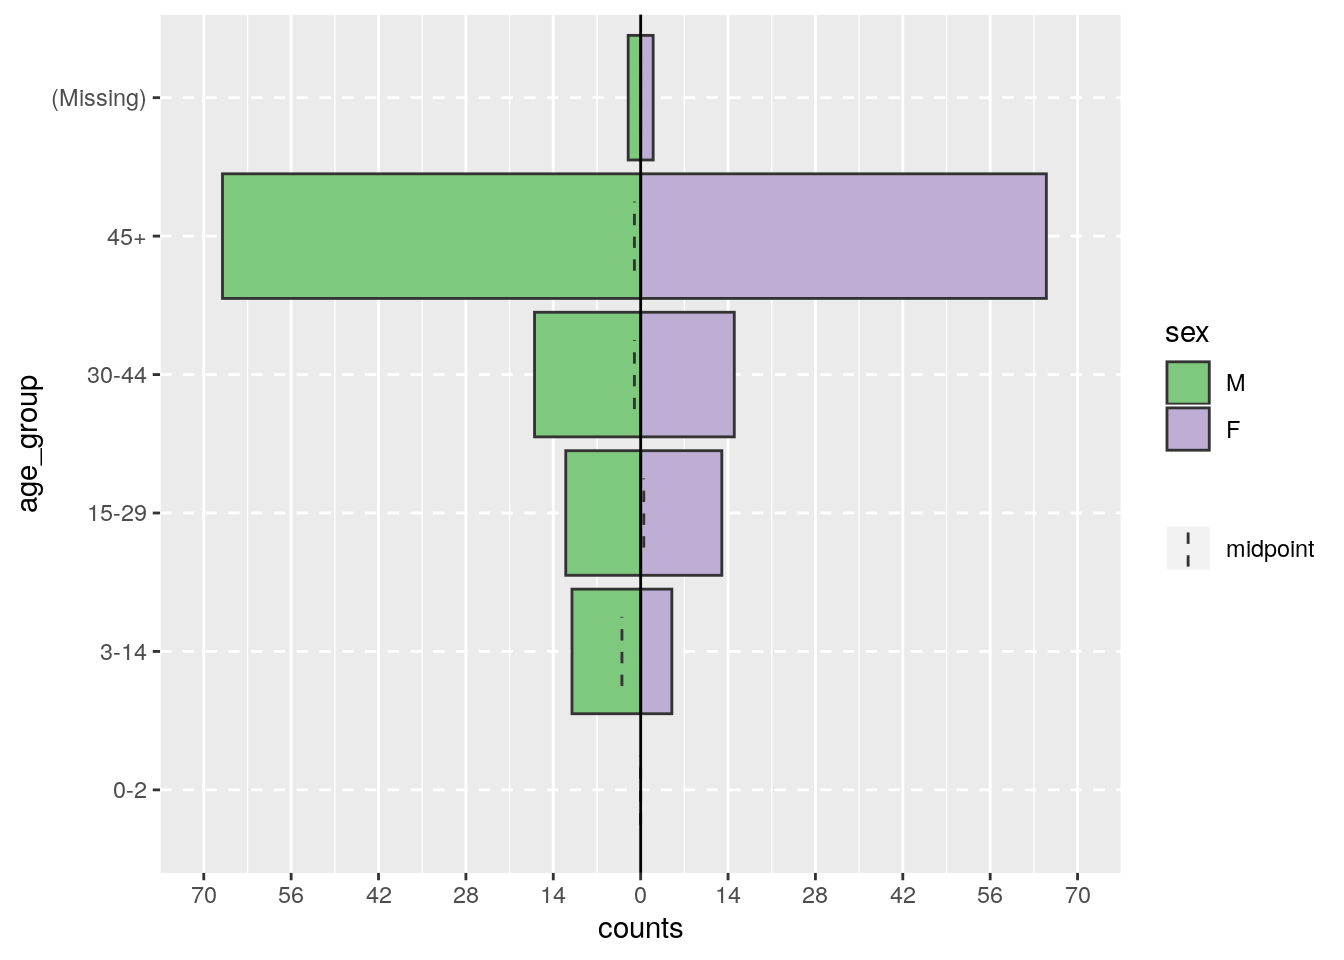
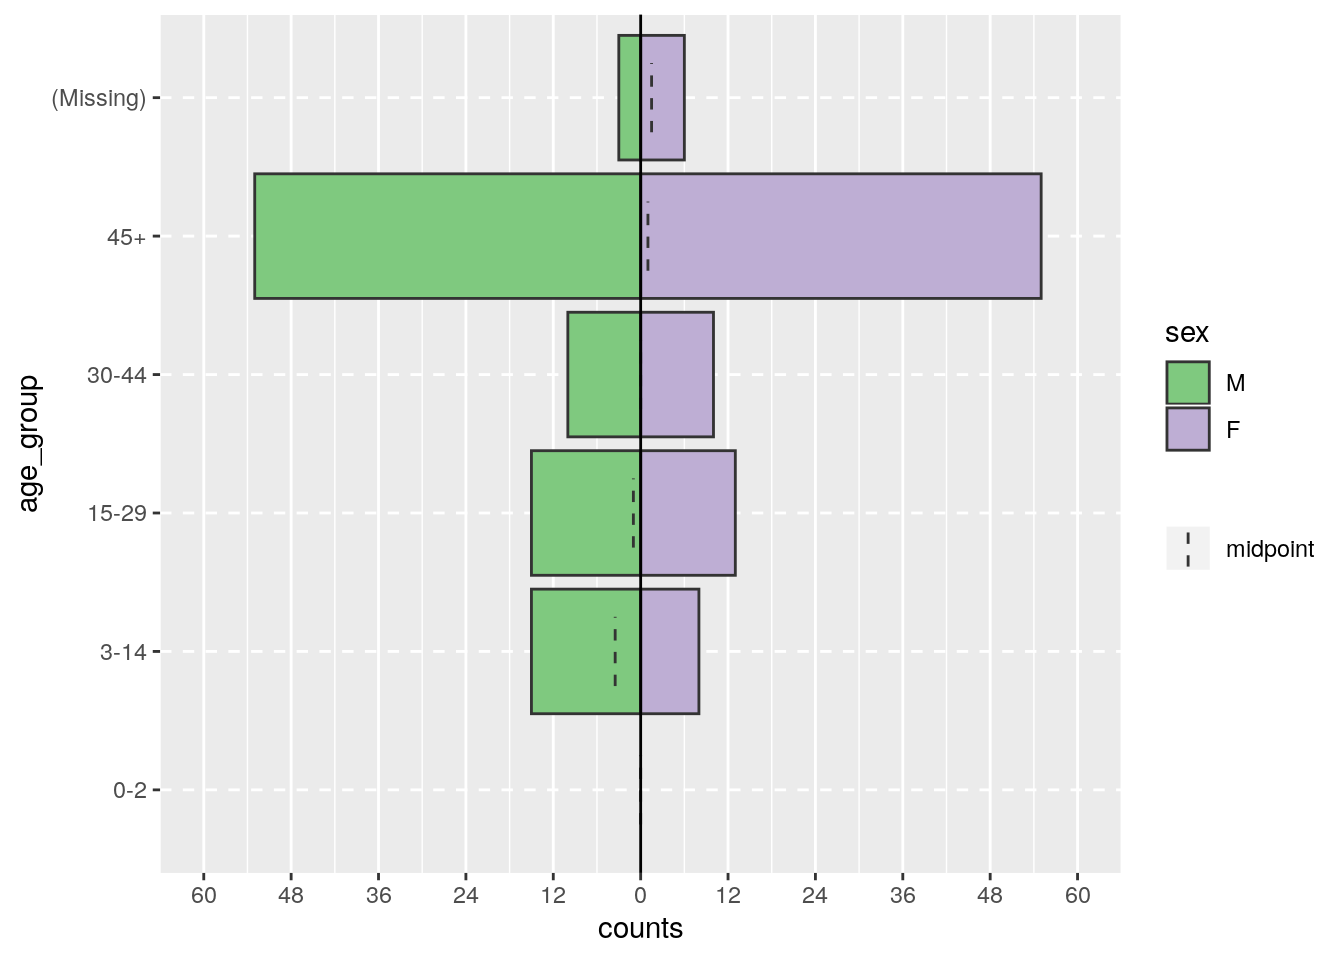
rebuild website

diff --git a/content/training/Walk-through/dataset_alignment.html b/content/training/Walk-through/dataset_alignment.html
@@ -38,21 +38,26 @@ colnames(linelist_cleaned) &lt;- cleaned_colnames</code></pre>
 <h3>Match variables to align with data dictionary</h3>
 <p>Standardized variable names are required for this template to work smoothly, and the variable names in our Am Timan dataset do not align with the names this template expects.</p>
 <p><strong>We need to change many variable names, and R4Epis developed a special function to help map variables to the expected variable names.</strong> The template also offers code that you can uncomment if there are only a few variable names to change.</p>
-<ol style="list-style-type: decimal">
-<li><strong>Paste the disease-specific rename helper into the script.</strong> This is done by uncommenting and running a command found in the <code>match_column_names</code> section - near the end of the chunk <code>prep_nonDHIS_data</code>. We run the command <code>msf_dict_rename_helper()</code> with “AJS” to get the correct helper for this case study.</li>
-</ol>
+<div id="paste-the-disease-specific-rename-helper-into-the-script" class="section level4">
+<h4>Paste the disease-specific rename helper into the script</h4>
+<p>This is done by uncommenting and running a command found in the <code>match_column_names</code> section—near the end of the chunk <code>prep_nonDHIS_data</code>. We run the command <code>msf_dict_rename_helper()</code> with “AJS” to get the correct helper for this case study.</p>
 <pre class="r"><code>msf_dict_rename_helper(&quot;AJS&quot;)</code></pre>
 <p>Running this command copies a block of code text to our clipboard. Now, <em>paste</em> from your clipboard into the template in the bottom of the code chunk. For the AJS template, the code that is pasted will look like the code below. This code uses the function <code>rename()</code> to change variable names.</p>
 <p>{{% notice tip %}}
 Be sure to paste the AJS rename helper code into an existing R code chunk (e.g. the bottom of <code>prep_nonDHIS_data</code>), not into the white space of the RMarkdown script.
 {{% /notice %}}</p>
 <p><img src="/images/Variable_Helper_Paste_Revised.gif" /></p>
-<ol start="2" style="list-style-type: decimal">
-<li><strong>Complete the mapping of variable names.</strong> To the right of each equals sign, and before each comma, type the <em>exact</em> names of the variables from your dataset that correspond to the expected MSF data dictionary variables on the left. The last un-commented line should not have a comma at the end.</li>
-</ol>
-<ul>
-<li><strong>Be sure to comment (#) out the lines of each data dictionary variable in the helper that is not present in your dataset!</strong> *</li>
-</ul>
+</div>
+<div id="complete-the-mapping-of-variable-names" class="section level4">
+<h4>Complete the mapping of variable names</h4>
+<p>The variables will be in alphabetical order, sorted by if the appear in the template (REQUIRED) or not (optional).</p>
+<p>{{% notice tip %}}
+Some variables—such as lab results or symptoms—are listed as REQUIRED, but are not absolutely necessary for the template to run. If you do not have a variable and are unsure if it’s necessary, do a search in the template to see if it’s marked as OPTIONAL in the code chunk.
+{{% /notice %}}</p>
+<p>To the right of each equals sign, and before each comma, type the <em>exact</em> names of the variables from your dataset that correspond to the expected MSF data dictionary variables on the left. The last un-commented line should not have a comma at the end.</p>
+<p>{{% notice info %}}
+Be sure to comment (#, ctrl + shift + c) out the lines of each data dictionary variable in the helper that is not present in your dataset!
+{{% /notice %}}</p>
 <p><img src="/images/AJS_Variable_Names.gif" /></p>
 <p>{{% notice tip %}}
 If you see this error:<br />
@@ -65,73 +70,74 @@ then you likely forgot to comment (#) the line for a variable you did not use.
 <pre class="r"><code>## Below are the column assignments used in this case study example
 
 linelist_cleaned &lt;- rename(linelist_cleaned,
-#  event_file_type                   =   , # TEXT                # (Not in dataset)
-  case_number                       =   hevid, # TEXT
-  date_of_consultation_admission    =   dtmedical, # DATE
-  detected_by                       =   referredby, # TEXT
-  patient_facility_type             =   hospitalised, # TEXT
-#  msf_involvement                   =   , # TEXT                # (Not in dataset)
-  age_years                         =   age, # INTEGER_POSITIVE
-#  age_months                        =   , # INTEGER_POSITIVE   # (Dataset only has years)
-#  age_days                          =   , # INTEGER_POSITIVE   # (Dataset only has years)
-  sex                               =   sex, # TEXT
-  patient_origin                    =   quartier, # ORG UNIT
-#  residential_status_brief          =   , # TEXT               # (Not in dataset)
-#  arrival_date_in_area_if_3m        =   , # DATE               # (Not in dataset)
-#  ever_received_hepatitis_e_vaccine =   , # TEXT               # (Not in dataset)
-#  date_of_last_vaccination          =   , # DATE               # (Not in dataset)
-  date_of_onset                     =   dtjaundice, # DATE
-#  history_of_fever                  =   , # BOOLEAN            # (Not in dataset)
-  fever                             =   medfever, # BOOLEAN
-  nausea_anorexia                   =   mednausea, # BOOLEAN
-  vomiting                          =   medvomit, # BOOLEAN
-  epigastric_pain_heartburn         =   medepigastric, # BOOLEAN
-  generalized_itch                  =   meditching, # BOOLEAN
-  headache                          =   medheadache, # BOOLEAN
-  joint_pains                       =   medarthralgia, # BOOLEAN
-  diarrhoea                         =   meddiar, # BOOLEAN
-  bleeding                          =   medbleeding, # BOOLEAN
-#  convulsions                       =   , # BOOLEAN            # (Not in dataset)
-  mental_state                      =   medmental, # BOOLEAN    # !(Needs value cleaning)
-  other_symptoms                    =   medother, # BOOLEAN
-  other_cases_in_hh                 =   medothhhajs, # BOOLEAN
-#  traditional_medicines             =   , # BOOLEAN            # (Not in dataset)
-#  traditional_medicine_details      =   , # TEXT               # (Not in dataset)
-#  recent_travel                     =   , # BOOLEAN            # (Not in dataset)
-#  water_source                      =   , # TEXT               # !(Split across many variables)
-  malaria_rdt_at_admission          =   medmalrdt, # TEXT
-  hep_b_rdt                         =   medhepb, # TEXT
-  hep_c_rdt                         =   medhepc, # TEXT
-  hep_e_rdt                         =   medhevrdt, # TEXT
-#  dengue_rdt                        =   , # TEXT               # (Not in dataset)
-  date_lab_sample_taken             =   medblooddt, # DATE
-  test_hepatitis_a                  =   medhavelisa, # TEXT
-  test_hepatitis_b                  =   medhbvelisa, # TEXT
-  test_hepatitis_c                  =   medhcvelisa, # TEXT
-  test_hepatitis_e_virus            =   medhevelisa, # TEXT
-  test_hepatitis_e_igm              =   hevrecent, # TEXT
-#  test_hepatitis_e_igg              =   , # TEXT               # (In same variable as elisa result)
-  test_hepatitis_e_genotype         =   hevgenotype, # TEXT
-#  malaria_blood_film                =   , # TEXT               # (Not in dataset)
-  dengue                            =   dengue, # TEXT
-  yellow_fever                      =   yf, # TEXT
-#  lassa_fever                       =   , # TEXT               # (Not in dataset)
-#  typhoid                           =   , # TEXT               # (Not in dataset)
-  chikungunya_onyongnyong           =   chik, # TEXT
-#  ebola_marburg                     =   , # TEXT               # (Not in dataset)
-  other_arthropod_transmitted_virus =   arbovpcr, # TEXT
-#  other_pathogen                    =   , # TEXT               # (Not in dataset)
-#  lab_comments                      =   , # TEXT               # (Not in dataset)
-  pregnant                          =   medpreg, # TEXT
-  trimester                         =   medpregtri, # TEXT
-#  foetus_alive_at_admission         =   , # TEXT               # (Not in dataset)
-#  delivery_event                    =   , # TRUE_ONLY          # (Not in dataset)
-  pregnancy_outcome_at_exit         =   medppoutcome, # TEXT
-  exit_status                       =   outcomehp, # TEXT
-#  date_of_exit                      =   , # DATE               # (Not in dataset)
-#  time_to_death                     =   , # TEXT               # (Not in dataset)
-  treatment_facility_site           =   hpid, # TEXT
-#  treatment_location                =   , # ORGANISATION_UNIT  # (Not in dataset)
-  patient_origin_free_text          =   block # TEXT
+  # age_days                          =   , # INTEGER_POSITIVE  (Dataset only has years)
+  # age_months                        =   , # INTEGER_POSITIVE  (Dataset only has years)
+  age_years                         = age, # INTEGER_POSITIVE  (REQUIRED)
+  bleeding                          = medbleeding, # BOOLEAN           (REQUIRED)
+  case_number                       = hevid, # TEXT              (REQUIRED)
+  chikungunya_onyongnyong           = chik, # TEXT              (REQUIRED)
+  # convulsions                       =   , # BOOLEAN           (Not in dataset)
+  date_of_consultation_admission    = dtmedical, # DATE              (REQUIRED)
+  # date_of_exit                      =   , # DATE              (Not in dataset)
+  date_of_onset                     = dtjaundice, # DATE              (REQUIRED)
+  dengue                            = dengue, # TEXT              (REQUIRED)
+  # dengue_rdt                        =   , # TEXT              (Not in dataset)
+  diarrhoea                         = meddiar, # BOOLEAN           (REQUIRED)
+  # ebola_marburg                     =   , # TEXT              (Not in dataset)
+  epigastric_pain_heartburn         = medepigastric, # BOOLEAN           (REQUIRED)
+  exit_status                       = outcomehp, # TEXT              (REQUIRED)
+  fever                             = medfever, # BOOLEAN           (REQUIRED)
+  generalized_itch                  = meditching, # BOOLEAN           (REQUIRED)
+  headache                          = medheadache, # BOOLEAN           (REQUIRED)
+  hep_b_rdt                         = medhepb, # TEXT              (REQUIRED)
+  hep_c_rdt                         = medhepc, # TEXT              (REQUIRED)
+  hep_e_rdt                         = medhevrdt, # TEXT              (REQUIRED)
+  # history_of_fever                  =   , # BOOLEAN           (Not in dataset)
+  joint_pains                       = medarthralgia, # BOOLEAN           (REQUIRED)
+  # lassa_fever                       =   , # TEXT              (Not in dataset)
+  # malaria_blood_film                =   , # TEXT              (Not in dataset)
+  malaria_rdt_at_admission          = medmalrdt, # TEXT              (REQUIRED)
+  mental_state                      = medmental, # BOOLEAN           (REQUIRED)
+  nausea_anorexia                   = mednausea, # BOOLEAN           (REQUIRED)
+  other_arthropod_transmitted_virus = arbovpcr, # TEXT              (REQUIRED)
+  other_cases_in_hh                 = medothhhajs, # BOOLEAN           (REQUIRED)
+  # other_pathogen                    =   , # TEXT              (Not in dataset)
+  other_symptoms                    = medother, # BOOLEAN           (REQUIRED)
+  patient_facility_type             = hospitalised, # TEXT              (REQUIRED)
+  patient_origin                    = quartier, # ORG UNIT          (REQUIRED)
+  sex                               = sex, # TEXT              (REQUIRED)
+  test_hepatitis_a                  = medhavelisa, # TEXT          (REQUIRED)
+  test_hepatitis_b                  = medhbvelisa, # TEXT          (REQUIRED)
+  test_hepatitis_c                  = medhcvelisa, # TEXT          (REQUIRED)
+  test_hepatitis_e_genotype         = hevgenotype, # TEXT          (REQUIRED)
+  # test_hepatitis_e_igg              =   , # TEXT              (In same variable as elisa result)
+  test_hepatitis_e_igm              = hevrecent, # TEXT          (REQUIRED)
+  test_hepatitis_e_virus            = medhevelisa, # TEXT          (REQUIRED)
+  # time_to_death                     =   , # TEXT              (Not in dataset)
+  # typhoid                           =   , # TEXT              (Not in dataset)
+  vomiting                          = medvomit, # BOOLEAN           (REQUIRED)
+  # water_source                      =   , # TEXT              !(Split across many variables)
+  yellow_fever                      = yf, # TEXT              (REQUIRED)
+  # arrival_date_in_area_if_3m        =   , # DATE              (optional)
+  date_lab_sample_taken             = medblooddt, # DATE              (optional)
+  # date_of_last_vaccination          =   , # DATE              (optional)
+  # delivery_event                    =   , # TRUE_ONLY         (optional)
+  detected_by                       = referredby, # TEXT              (optional)
+  # event_file_type                   =   , # TEXT              (optional)
+  # ever_received_hepatitis_e_vaccine =   , # TEXT              (optional)
+  # foetus_alive_at_admission         =   , # TEXT              (optional)
+  # lab_comments                      =   , # TEXT              (optional)
+  # msf_involvement                   =   , # TEXT              (optional)
+  patient_origin_free_text          = block, # TEXT              (optional)
+  pregnancy_outcome_at_exit         = medppoutcome, # TEXT              (optional)
+  pregnant                          = medpreg, # TEXT              (optional)
+  # recent_travel                     =   , # BOOLEAN           (optional)
+  # residential_status_brief          =   , # TEXT              (optional)
+  # traditional_medicine_details      =   , # TEXT              (optional)
+  # traditional_medicines             =   , # BOOLEAN           (optional)
+  treatment_facility_site           = hpid, # TEXT              (optional)
+  # treatment_location                =   , # ORGANISATION_UNIT (optional)
+  trimester                         = medpregtri # TEXT              (optional)
 )</code></pre>
+</div>
 </div>

diff --git a/content/training/R_Basics/Advanced_Functions.html b/content/training/R_Basics/Advanced_Functions.html
@@ -36,9 +36,9 @@ fct_count(linelist_cleaned$sex)</code></pre>
 <pre><code>## # A tibble: 3 x 2
 ##   f         n
 ##   &lt;fct&gt; &lt;int&gt;
-## 1 M        97
-## 2 F       107
-## 3 U        96</code></pre>
+## 1 M        98
+## 2 F       105
+## 3 U        97</code></pre>
 <p>Now we re-label the values using <code>fct_recode()</code>, also from the package <strong>forcats</strong>.</p>
 <pre class="r"><code># Re-define the labels for the factor variable (pay attention to spelling!)
 linelist_cleaned$sex &lt;- fct_recode(linelist_cleaned$sex, 
@@ -51,9 +51,9 @@ fct_count(linelist_cleaned$sex)</code></pre>
 <pre><code>## # A tibble: 3 x 2
 ##   f           n
 ##   &lt;fct&gt;   &lt;int&gt;
-## 1 Male       97
-## 2 Female    107
-## 3 Unknown    96</code></pre>
+## 1 Male       98
+## 2 Female    105
+## 3 Unknown    97</code></pre>
 <p><strong>To change the <em>arrangement</em> of the levels, use <code>fct_relevel()</code></strong>.</p>
 <p>This will impact the <em>arrangement</em> of the levels as displayed in graphs and tables. Give the name of the factor followed by the new arrangement (pay attention to spelling!).</p>
 <pre class="r"><code># Provide new arrangement of levels
@@ -77,10 +77,10 @@ fct_count(linelist_cleaned$sex)</code></pre>
 <pre><code>## # A tibble: 4 x 2
 ##   f           n
 ##   &lt;fct&gt;   &lt;int&gt;
-## 1 Female    107
-## 2 Male       97
+## 1 Female    105
+## 2 Male       98
 ## 3 Unknown     0
-## 4 &lt;NA&gt;       96</code></pre>
+## 4 &lt;NA&gt;       97</code></pre>
 <blockquote>
 <p>We can see that the value “Unknown” now has a count of zero, but it is still present as a level of the factor variable and will appear in tables and graphs. To remove this level entirely we use <code>fct_drop()</code>, which drops unused levels from a factor.</p>
 </blockquote>
@@ -92,9 +92,9 @@ fct_count(linelist_cleaned$sex)</code></pre>
 <pre><code>## # A tibble: 3 x 2
 ##   f          n
 ##   &lt;fct&gt;  &lt;int&gt;
-## 1 Female   107
-## 2 Male      97
-## 3 &lt;NA&gt;      96</code></pre>
+## 1 Female   105
+## 2 Male      98
+## 3 &lt;NA&gt;      97</code></pre>
 <p>{{% notice tip %}}
 Use the argument <code>only =</code> to drop specific levels: <code>fct_drop(linelist_cleaned$sex, only = &quot;Unknown&quot;)</code>
 {{% /notice %}}</p>

diff --git a/content/training/Walk-through/person_analyses.html b/content/training/Walk-through/person_analyses.html
@@ -254,7 +254,7 @@ filter(linelist_cleaned, age_years &lt;= 2) %&gt;%
 tab_linelist(linelist_cleaned, SYMPTOMS, keep = &quot;Oui&quot;) %&gt;% 
   select(-value) %&gt;%
   # fix the way symptom names are displayed
-  mutate(variable = str_to_sentence(gsub(&quot;_&quot;, &quot; &quot;, variable))) %&gt;%
+  mutate(variable = str_to_sentence(str_replace_all(variable, &quot;_&quot;, &quot; &quot;))) %&gt;%
   # rename accordingly
   rename_redundant(&quot;%&quot; = proportion) %&gt;%
   augment_redundant(&quot; (n)&quot; = &quot; n$&quot;) %&gt;%
@@ -320,13 +320,13 @@ tab_linelist(linelist_cleaned, SYMPTOMS, keep = &quot;Oui&quot;) %&gt;%
 <li>In the initial <code>tab_linelist()</code> command, <code>transpose = &quot;value&quot;</code> is set because the values in the lab data are important in-and-of themselves (e.g. IgM+/IgG-, etc.) - i.e. the values should become column headers.</li>
 </ul>
 <p>{{% notice tip %}}
-This table may be large and unwieldy at first, until you clean your data. The step in data cleaning where we converted 0, 1, “yes”, “pos”, “neg”, etc. to standardized “Positive” and “Negative” was crucial towards making this table readable. Once kitted into a word document, you will likely need to adjust the font size, column widths, etc.
+This table may be large and unwieldy at first, until you clean your data. The step in data cleaning where we converted 0, 1, “yes”, “pos”, “neg”, etc. to standardized “Positive” and “Negative” was crucial towards making this table readable. Once knitted into a word document, you will likely need to adjust the font size, column widths, etc.
 {{% /notice %}}</p>
 <pre class="r"><code># get counts and proportions for all variables named in LABS
 tab_linelist(linelist_cleaned, LABS, 
              transpose = &quot;value&quot;) %&gt;% 
   # fix the way lab test names are displayed
-  mutate(variable = str_to_sentence(gsub(&quot;_&quot;, &quot; &quot;, variable))) %&gt;%
+  mutate(variable = str_to_sentence(str_replace_all(variable, &quot;_&quot;, &quot; &quot;))) %&gt;%
   # rename accordingly
   rename(&quot;Lab test&quot; = variable) %&gt;%
   rename_redundant(&quot;%&quot; = proportion) %&gt;%

diff --git a/content/training/Walk-through/clean_data.html b/content/training/Walk-through/clean_data.html
@@ -108,9 +108,11 @@ linelist_cleaned$age_years &lt;- as.numeric(linelist_cleaned$age_years)</code></
 </ul>
 <pre class="r"><code># For patients under 5 years, the new variable age_months is based on age_years * 12 
 linelist_cleaned &lt;- mutate(linelist_cleaned,
-                            age_months = case_when(
-                              age_years &lt; 5 ~ age_years * 12
-                              )) </code></pre>
+                           age_months = if_else(age_years &lt; 5, 
+                                                true  = age_years * 12, 
+                                                false = as.numeric(NA)
+                                               )
+                          )</code></pre>
 <p><strong>Now we can create the variables <code>age_group</code> <code>age_group_mon</code>.</strong></p>
 <p>First we use the code to create an <code>age_group_mon</code> variable for children under 5 years based on <code>age_months</code>.</p>
 <pre class="r"><code>## create age group variable for under 5 years based on months

diff --git a/content/training/R_Basics/Functions.html b/content/training/R_Basics/Functions.html
@@ -12,7 +12,7 @@ weight: 8
 <p><strong>Functions typically operate upon some object placed within the function’s parentheses</strong>. For example, when the function <code>summary()</code> is used on a variable of class numeric, the output is a summary of the variable’s numeric and missing values.</p>
 <pre class="r"><code>summary(linelist_raw$age_years)</code></pre>
 <pre><code>##    Min. 1st Qu.  Median    Mean 3rd Qu.    Max.    NA&#39;s 
-##    3.00   34.00   57.00   60.71   89.00  120.00       7</code></pre>
+##    3.00   29.00   62.00   60.86   92.50  120.00      13</code></pre>
 <p>On installation, R contains “base” functions that perform common tasks. Specialized functions have been created by R users, verified by the R community, and can be downloaded within “packages” to your RStudio for use. One of the more challenging aspects of R is that there are often many functions to choose from to complete a given task.</p>
 </div>
 <div id="functions-with-multiple-arguments" class="section level3">
